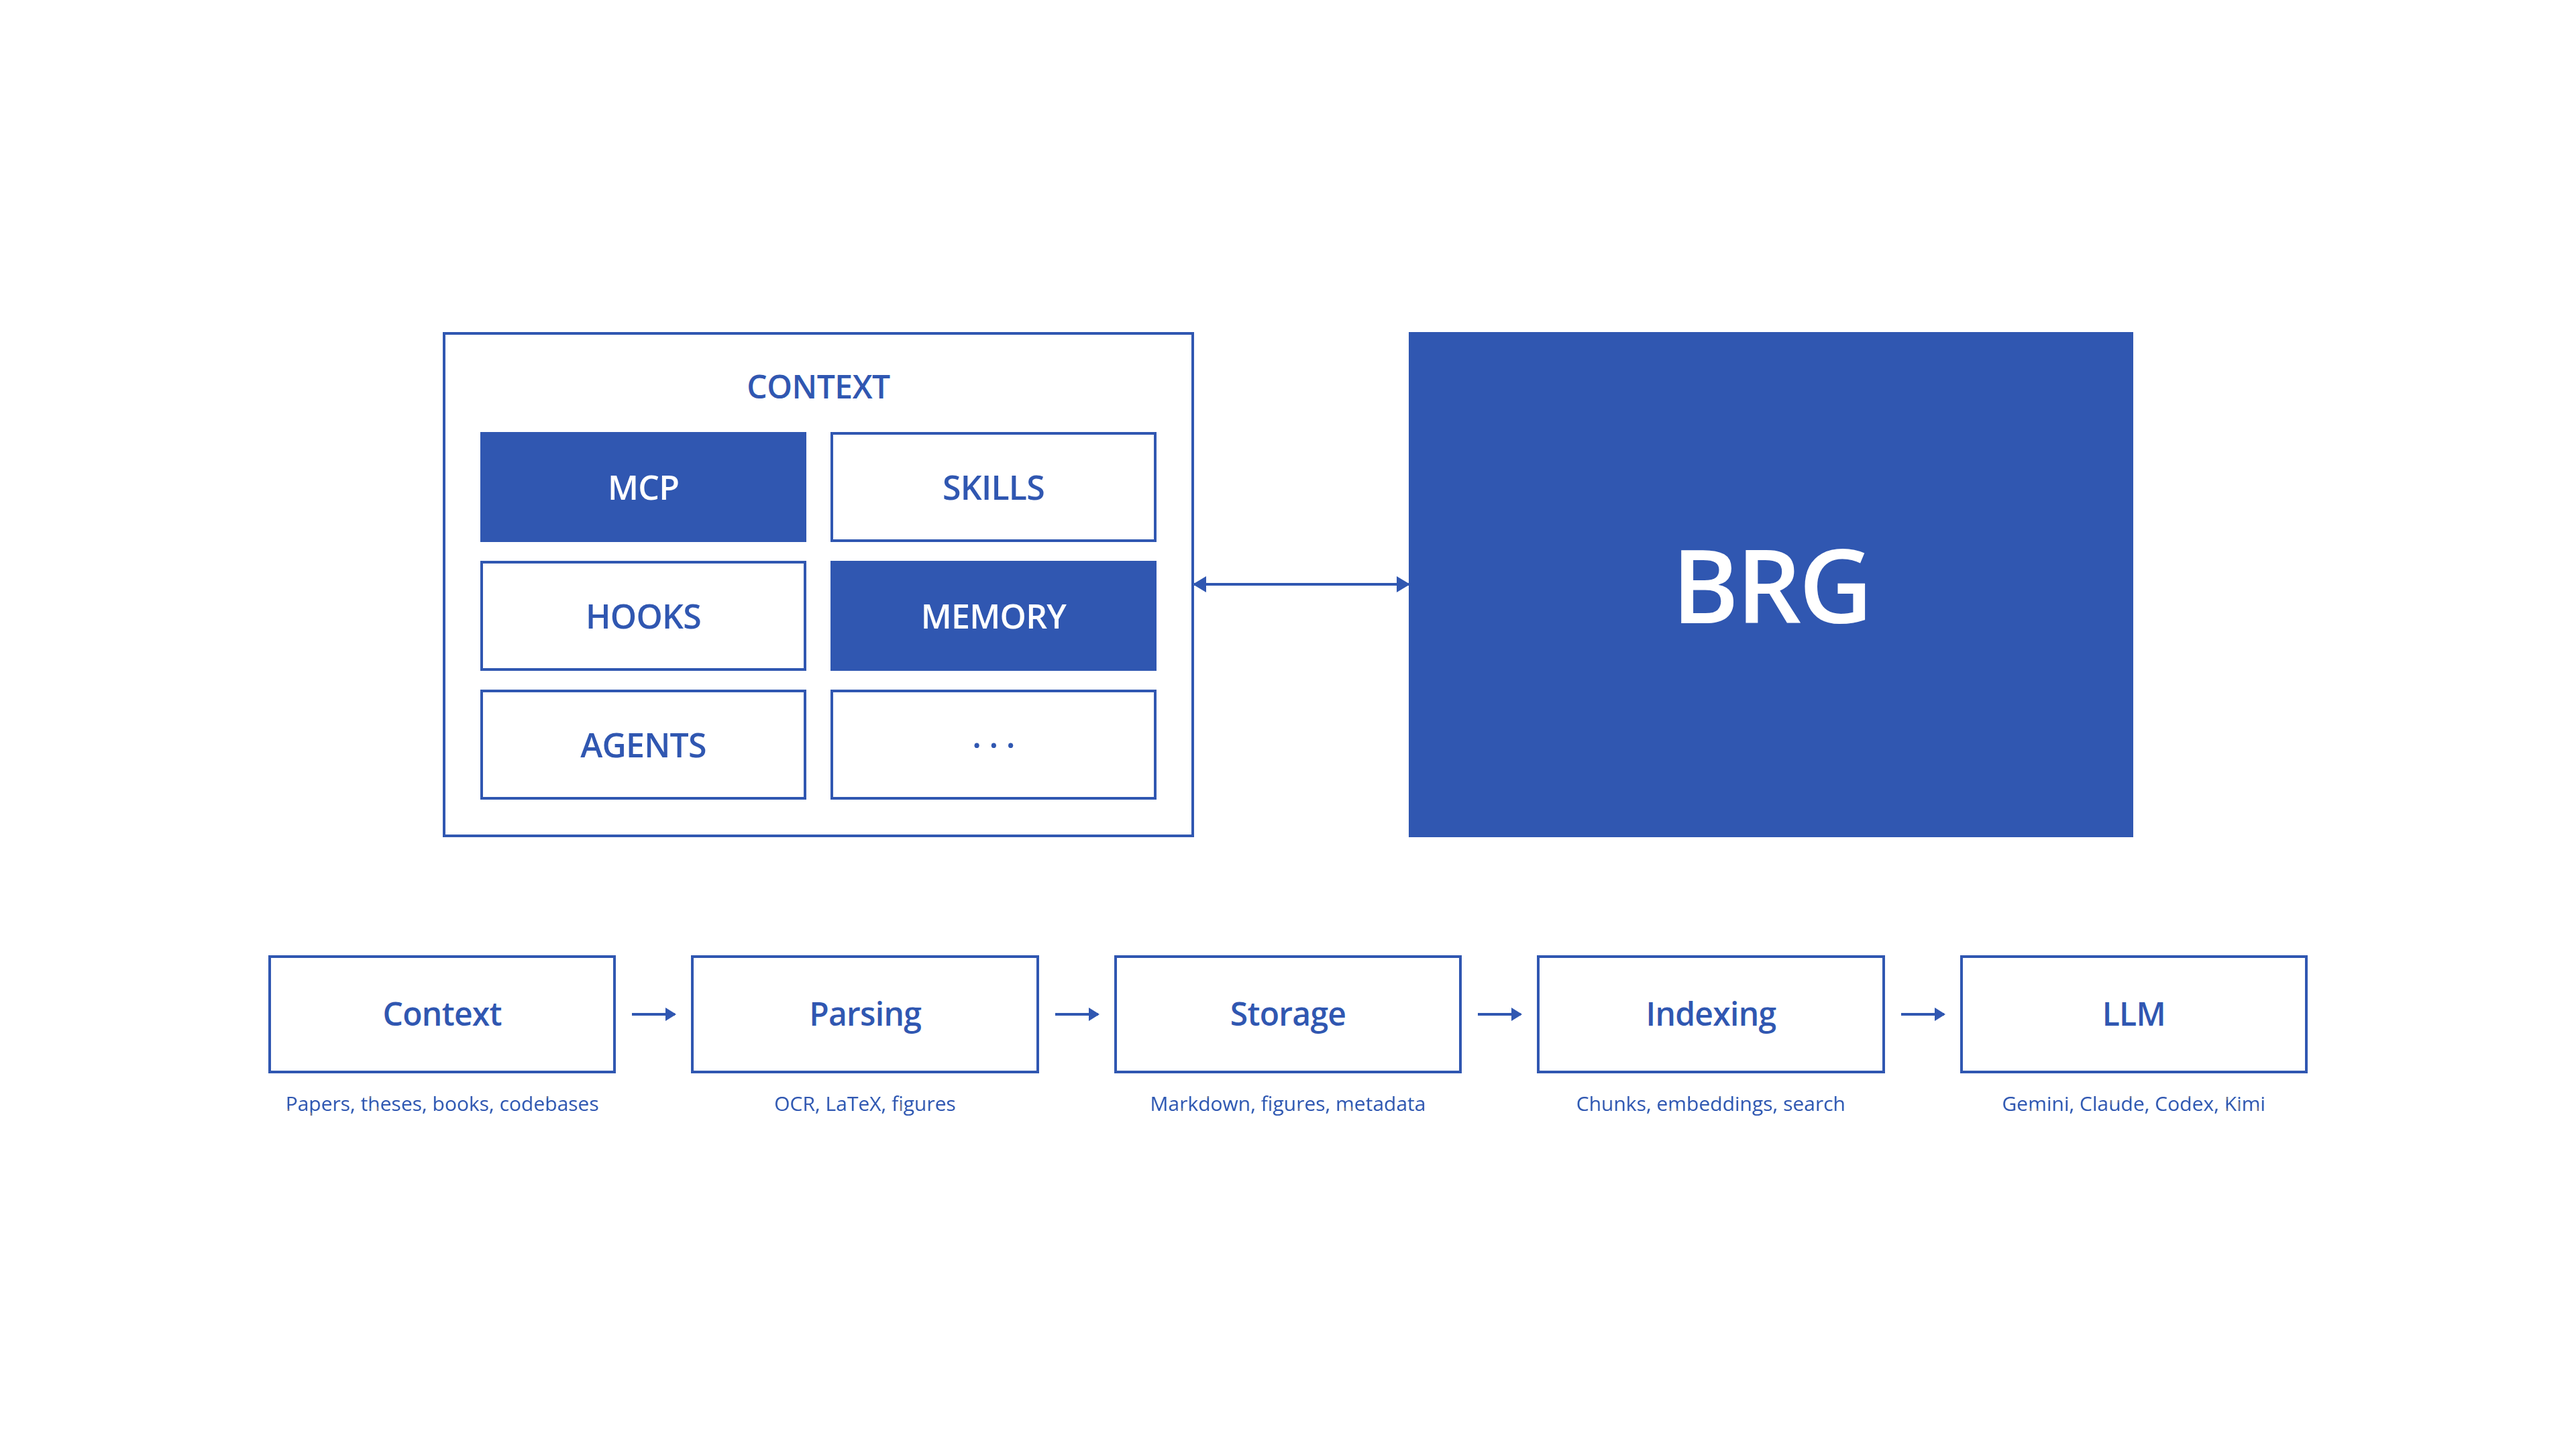
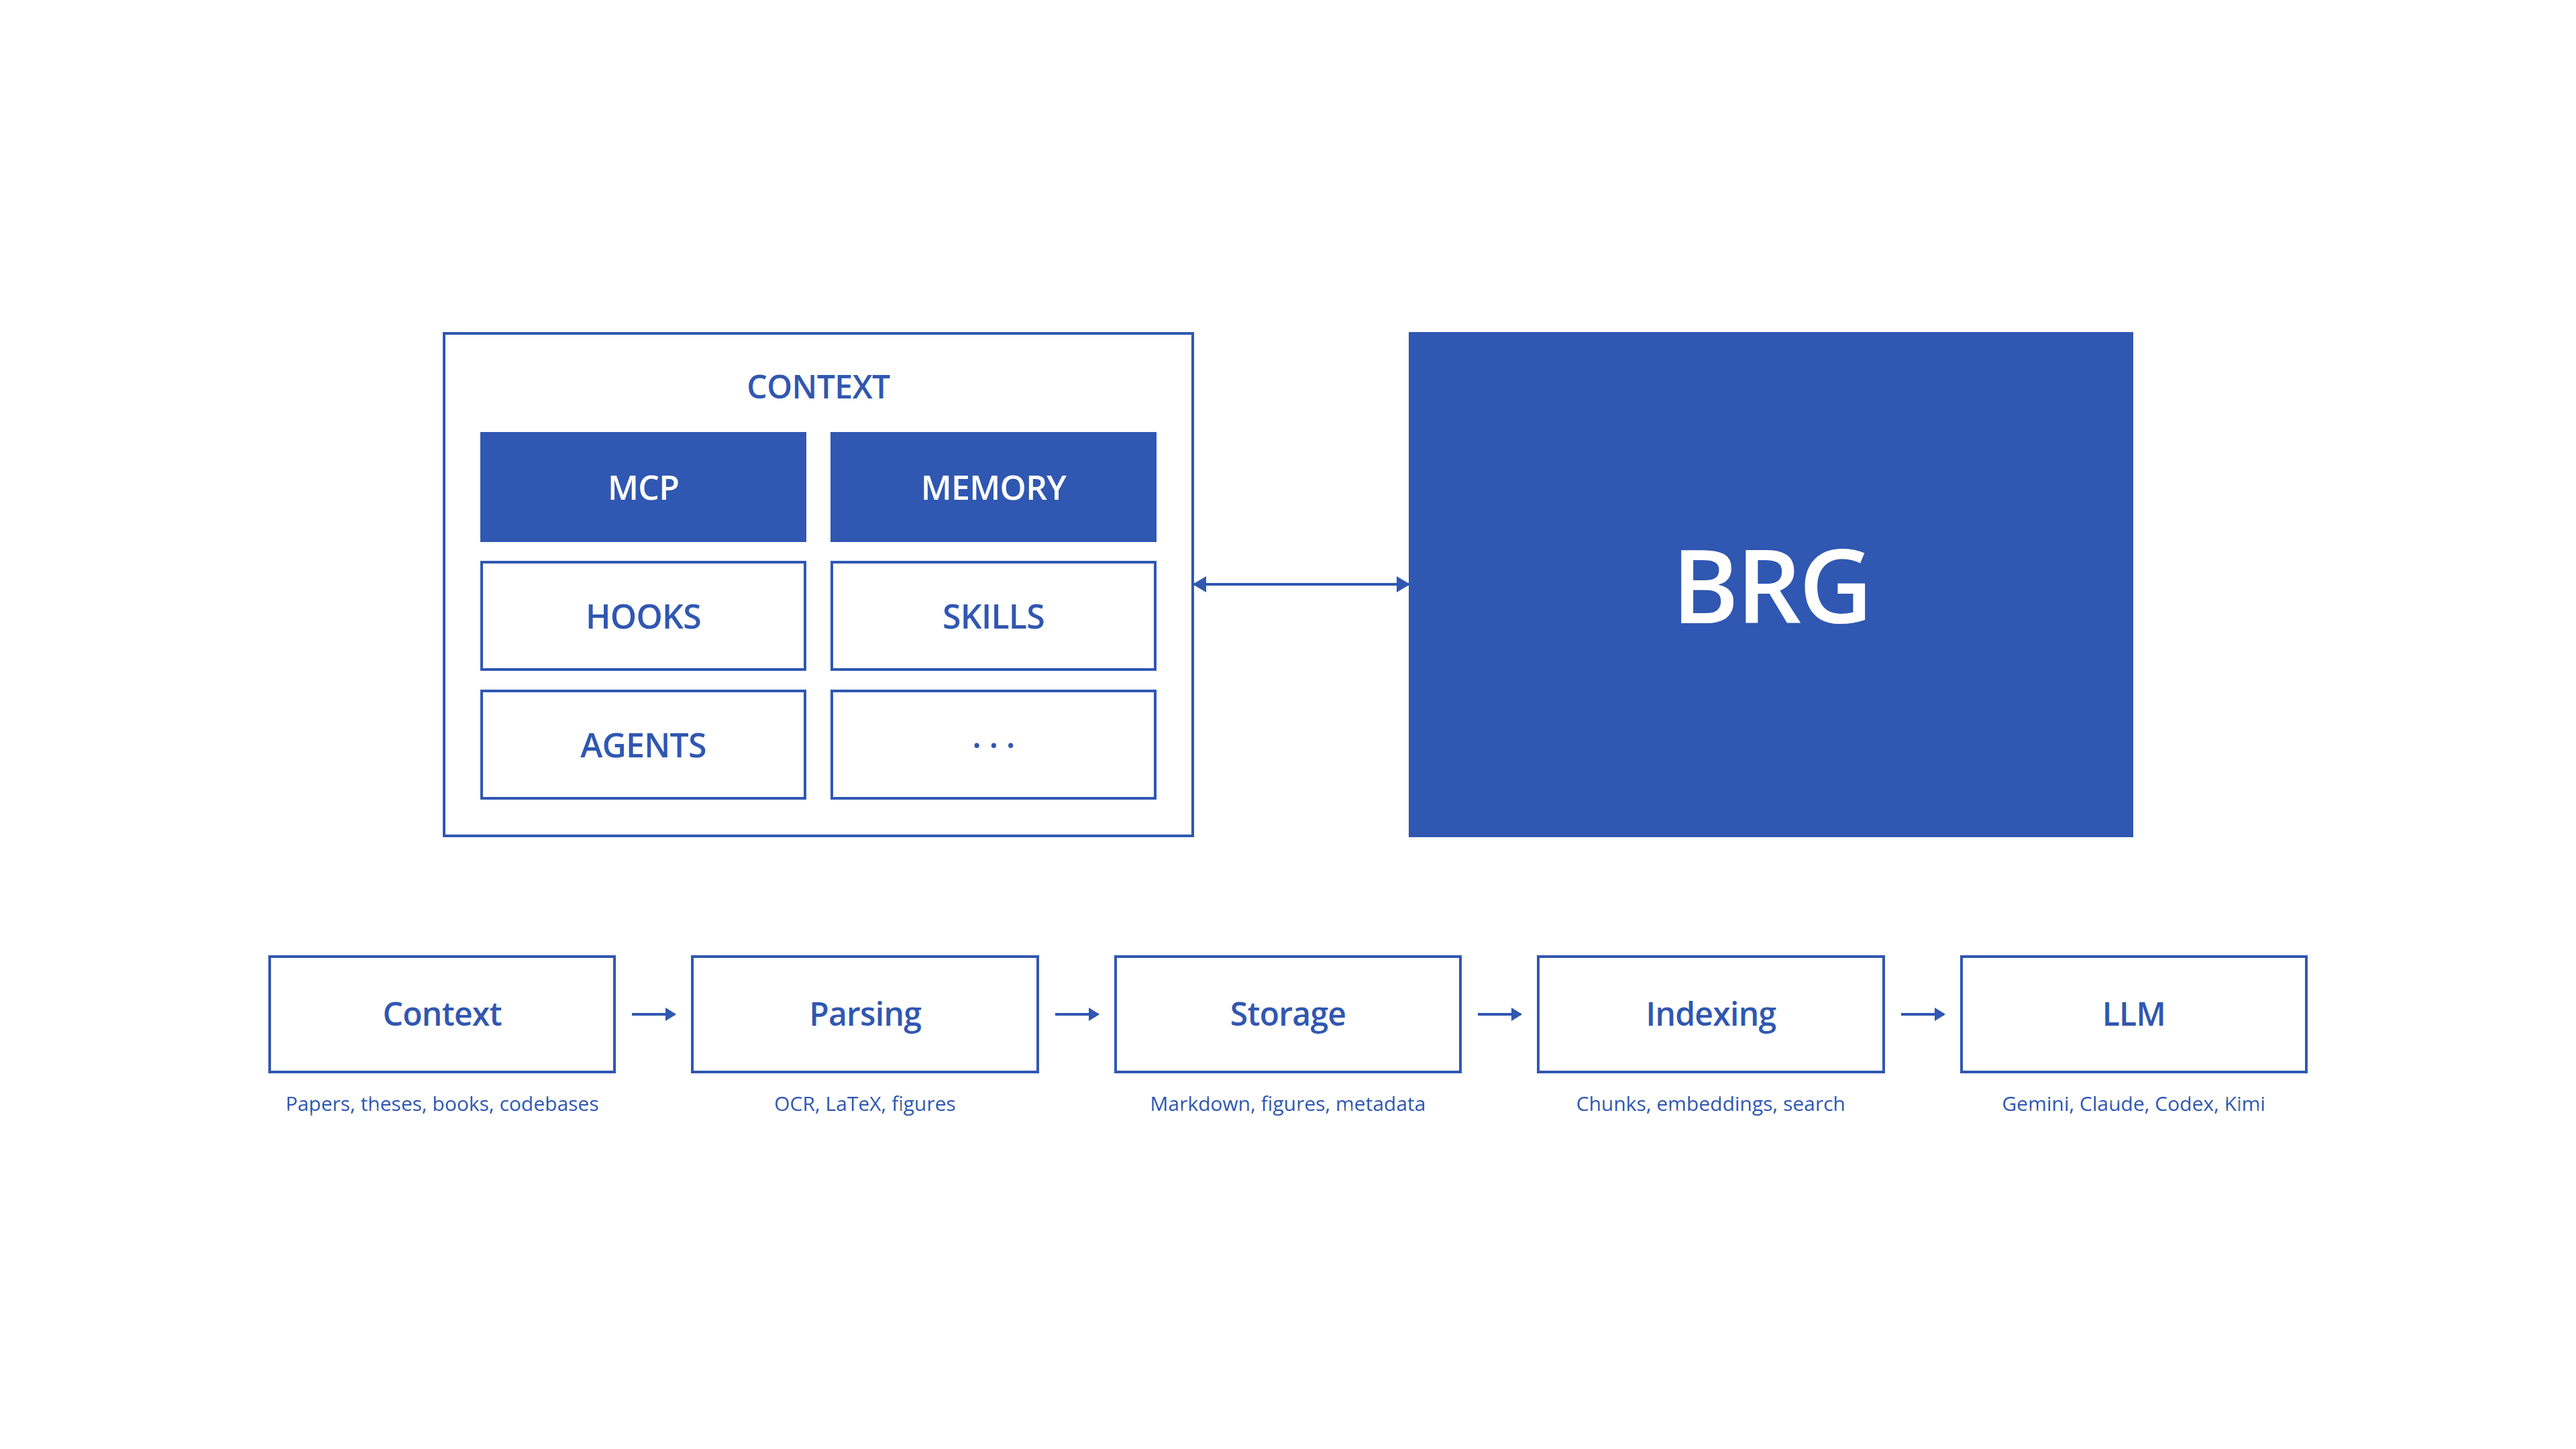
Put MCP and MEMORY first on Slide 7 and add TNA method-highlight and tna/ folder slides before TNA presentations

Changed region(s): [[0.3125, 0.2792, 0.4688, 0.4653]]

diff --git a/CAS/website/data.js b/CAS/website/data.js
@@ -108,7 +108,7 @@ window.CAS = {
                 },
               },
             },
-            { src: 'presentations/mcp/slide-4.png?v=3', alt: 'LLM for BRG architecture: Context layers (MCP, Skills, Hooks, Memory, Agents) connected to BRG and the Context, Parsing, Storage, Indexing and LLM pipeline.' },
+            { src: 'presentations/mcp/slide-4.png?v=4', alt: 'LLM for BRG architecture: Context layers (MCP and Memory first, followed by Hooks, Skills, Agents) connected to BRG and the Context, Parsing, Storage, Indexing and LLM pipeline.' },
             { src: 'presentations/mcp/slide-5.png?v=3', alt: 'Method focus across four subjects: FD (Force Density, highlighted), DR (Dynamic Relaxation), TNA (Thrust Network Analysis) and AGS (Algebraic Graphic Statics).' },
             { src: 'presentations/mcp/slide-6.png?v=4', alt: 'Folder structure of brg_framework MCP for the Force Density (FD) method.' },
             {
@@ -143,6 +143,8 @@ slides:
                 hint: 'Click to open FD interactive viewer ↗',
               },
             },
+            { src: 'presentations/mcp/slide-5-tna.png?v=1', alt: 'Method focus across four subjects: FD (Force Density), DR (Dynamic Relaxation), TNA (Thrust Network Analysis, highlighted) and AGS (Algebraic Graphic Statics).' },
+            { src: 'presentations/mcp/slide-6-tna.png?v=1', alt: 'Folder structure of brg_framework MCP for the Thrust Network Analysis (TNA) method.' },
             {
               key: 'interactive-drawing-tna',
               alt: 'Interactive Thrust Network Analysis presentations (5 clickable decks) and YAML stage format, displayed beside a large clickable laptop.',
